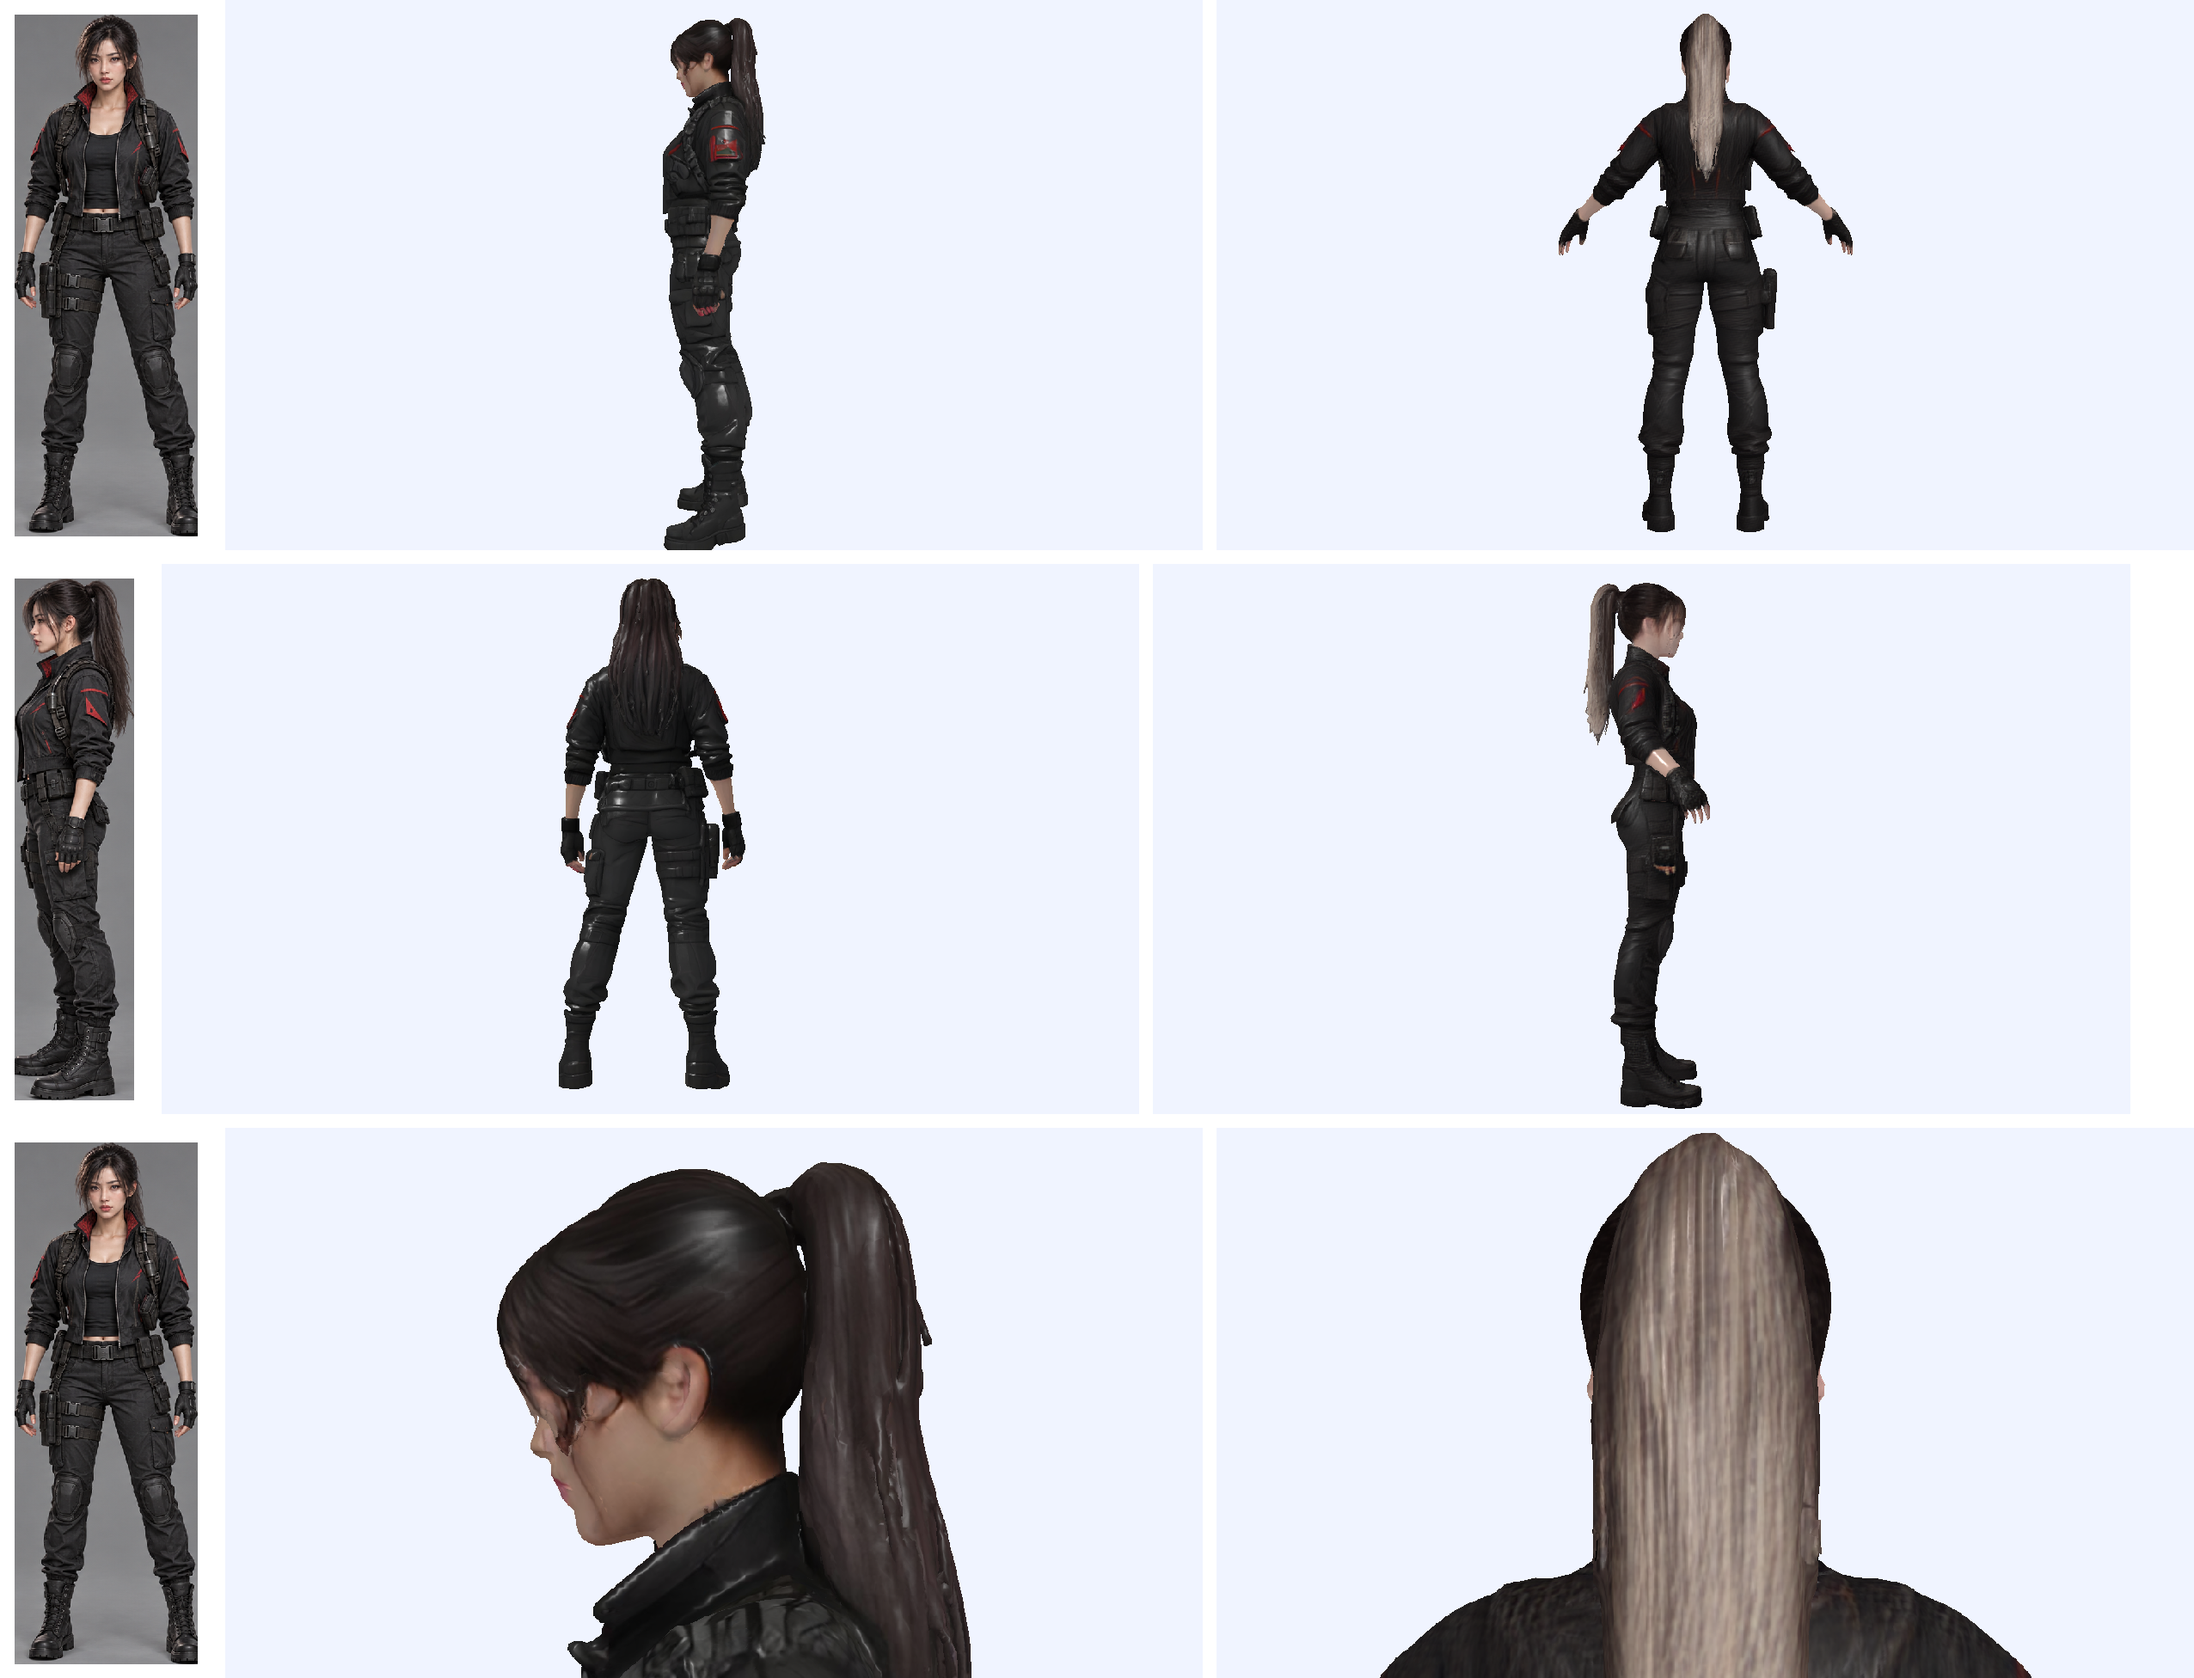
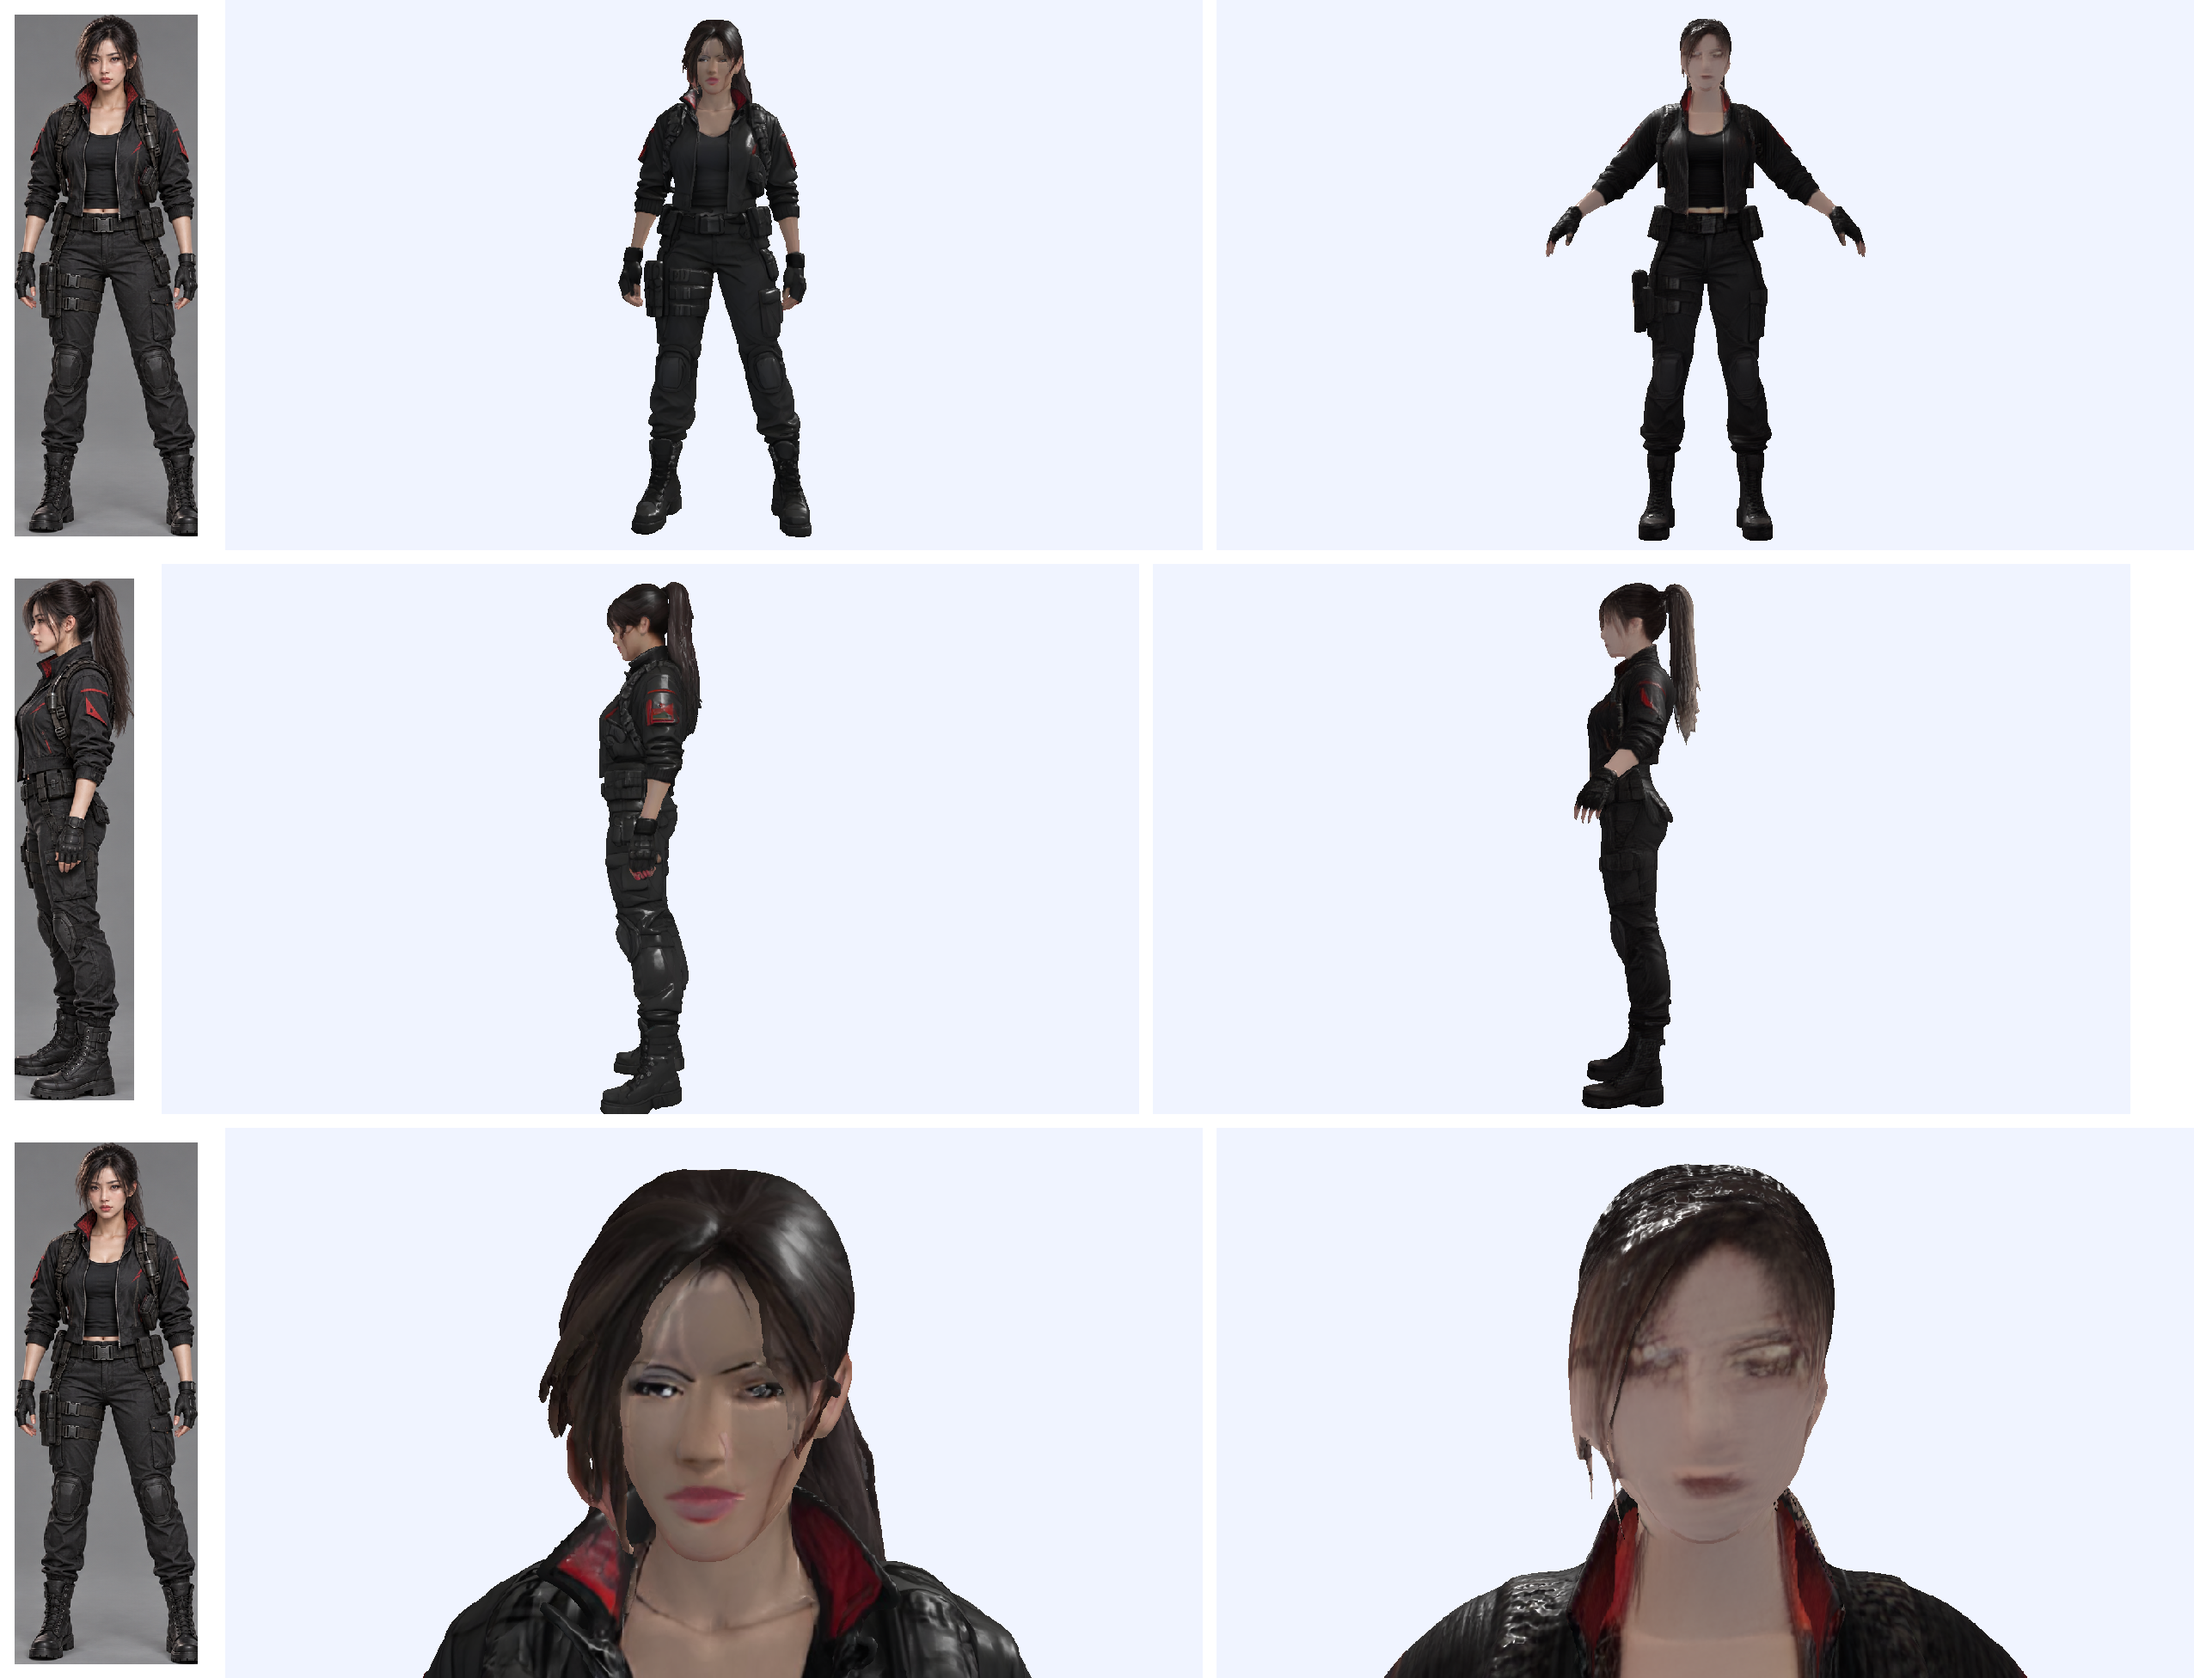
fix(yui R6): orient candidate captures per GLB forward axis; record capture cameras
Claude-Session: https://claude.ai/code/session_01Vqpyc11Vx5PoDsZc4dTsLx

diff --git a/pipeline/integrations/mesh3d/candidates.py b/pipeline/integrations/mesh3d/candidates.py
@@ -7,12 +7,16 @@ sys.path.insert(0, str(Path(__file__).resolve().parents[2]))
 from forge.stage1_intake.probe_glb import probe_glb  # noqa: E402
 
 
-def summarize_candidates(gen_root: Path, endpoints=("tripo", "rodin")) -> dict:
+def summarize_candidates(gen_root: Path, endpoints=("tripo", "rodin"), extra: dict[str, dict] | None = None) -> dict:
     """probe_glb returns (confirmed in probe_glb.py): sha256, meshes[], materials[], bounds{min,max} plus scalar warnings.
 
     Note: probe_glb's mesh primitive records expose attributes/material/positionBounds
     but no indices/vertex-count field, so triangleCount cannot be derived from them;
     the key is only included when such a field is actually present.
+
+    `extra`, when given, maps endpoint -> a dict of additional fields merged into that
+    candidate only (e.g. viewerAzimuthOffsetDegrees, captureCamera); endpoints not present
+    in `extra` are left untouched.
     """
     out = []
     for ep in endpoints:
@@ -25,7 +29,7 @@ def summarize_candidates(gen_root: Path, endpoints=("tripo", "rodin")) -> dict:
             "endpoint": ep, "glb": str(glb), "sha256": report["sha256"], "bytes": glb.stat().st_size,
             "requestId": prov.get("requestId"), "meshCount": len(report["meshes"]), "materialCount": len(report["materials"]),
             "textureCount": len(textures), "bounds": report.get("bounds"),
-            "probe": {k: v for k, v in report.items() if not isinstance(v, (list, dict))},
+            "probe": {k: v for k, v in report.items() if k != "path" and not isinstance(v, (list, dict))},
         }
         triangle_count = 0
         has_triangle_field = False
@@ -38,6 +42,8 @@ def summarize_candidates(gen_root: Path, endpoints=("tripo", "rodin")) -> dict:
                         triangle_count += value // 3 if key == "indexCount" else value
         if has_triangle_field:
             candidate["triangleCount"] = triangle_count
+        if extra and ep in extra:
+            candidate.update(extra[ep])
         out.append(candidate)
     return {"candidates": out}
 
@@ -45,8 +51,10 @@ def summarize_candidates(gen_root: Path, endpoints=("tripo", "rodin")) -> dict:
 def main(argv=None) -> int:
     ap = argparse.ArgumentParser(description=__doc__)
     ap.add_argument("--gen-root", type=Path, required=True); ap.add_argument("--out", type=Path, required=True)
+    ap.add_argument("--extra", type=Path, help="JSON file: {endpoint: {field: value, ...}, ...} merged per candidate")
     a = ap.parse_args(argv)
-    s = summarize_candidates(a.gen_root); a.out.parent.mkdir(parents=True, exist_ok=True)
+    extra = json.loads(a.extra.read_text()) if a.extra else None
+    s = summarize_candidates(a.gen_root, extra=extra); a.out.parent.mkdir(parents=True, exist_ok=True)
     a.out.write_text(json.dumps(s, indent=2, ensure_ascii=False) + "\n"); print(json.dumps(s, ensure_ascii=False)[:600])
     return 0
 

diff --git a/pipeline/forge/tests/test_candidates.py b/pipeline/forge/tests/test_candidates.py
@@ -19,6 +19,28 @@ class Candidates(unittest.TestCase):
             self.assertEqual(len(s['candidates'][0]['sha256']), 64)
             self.assertGreaterEqual(s['candidates'][0]['meshCount'], 1)
 
+    def test_probe_path_excluded(self):
+        with tempfile.TemporaryDirectory() as d:
+            root = Path(d)
+            for ep in ('tripo', 'rodin'):
+                (root / ep).mkdir(); write_triangle_glb(root / ep / 'model.glb')
+                (root / ep / 'provenance.json').write_text(json.dumps({'endpoint': ep, 'requestId': 'r-' + ep, 'outputs': []}))
+            s = candidates.summarize_candidates(root)
+            self.assertNotIn('/Users/', json.dumps(s))
+            self.assertNotIn('path', s['candidates'][0]['probe'])
+
+    def test_extra_merged_per_endpoint(self):
+        with tempfile.TemporaryDirectory() as d:
+            root = Path(d)
+            for ep in ('tripo', 'rodin'):
+                (root / ep).mkdir(); write_triangle_glb(root / ep / 'model.glb')
+                (root / ep / 'provenance.json').write_text(json.dumps({'endpoint': ep, 'requestId': 'r-' + ep, 'outputs': []}))
+            extra = {'tripo': {'viewerAzimuthOffsetDegrees': 90}}
+            s = candidates.summarize_candidates(root, extra=extra)
+            by_ep = {c['endpoint']: c for c in s['candidates']}
+            self.assertEqual(by_ep['tripo']['viewerAzimuthOffsetDegrees'], 90)
+            self.assertNotIn('viewerAzimuthOffsetDegrees', by_ep['rodin'])
+
 
 if __name__ == '__main__':
     unittest.main()
